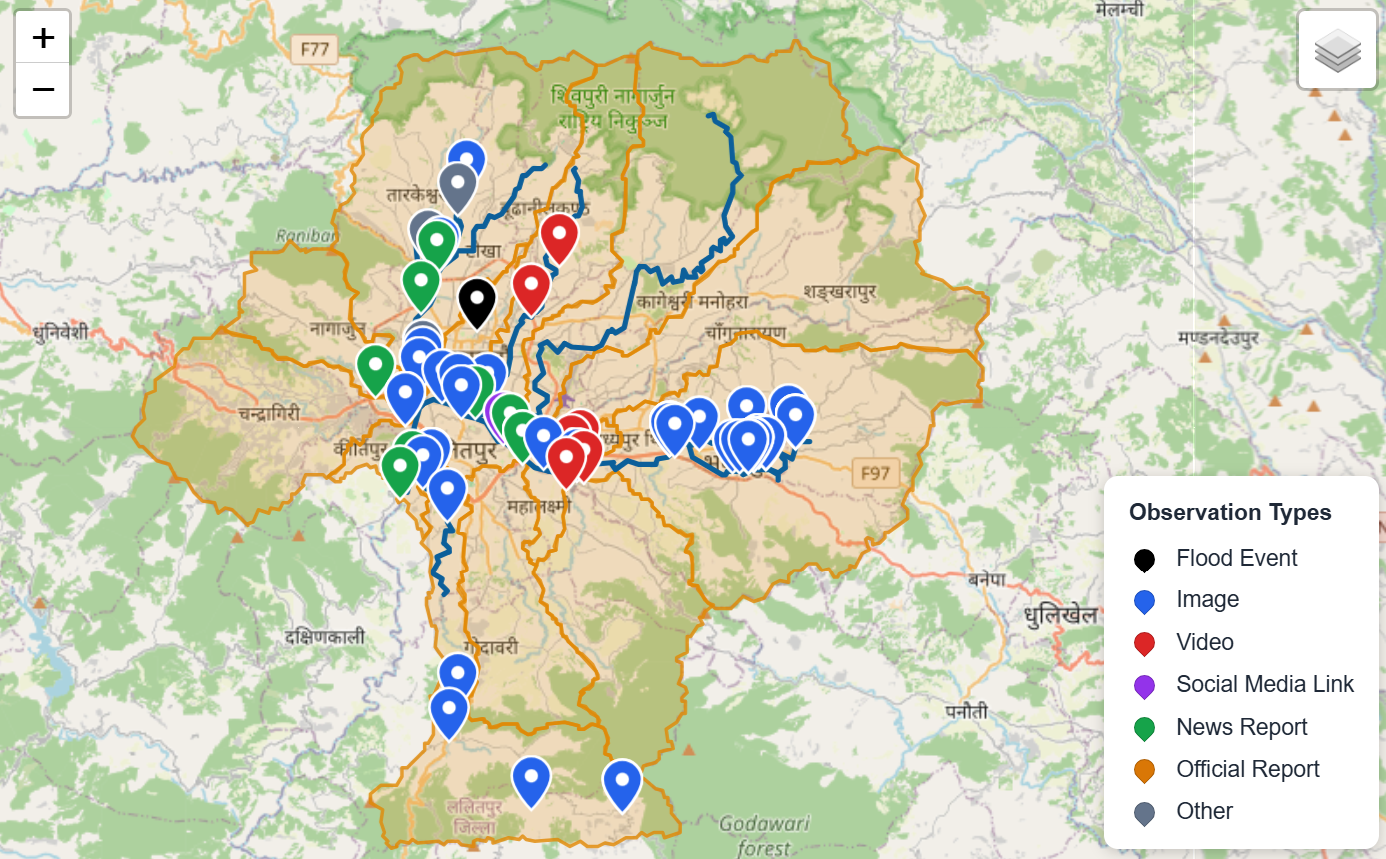
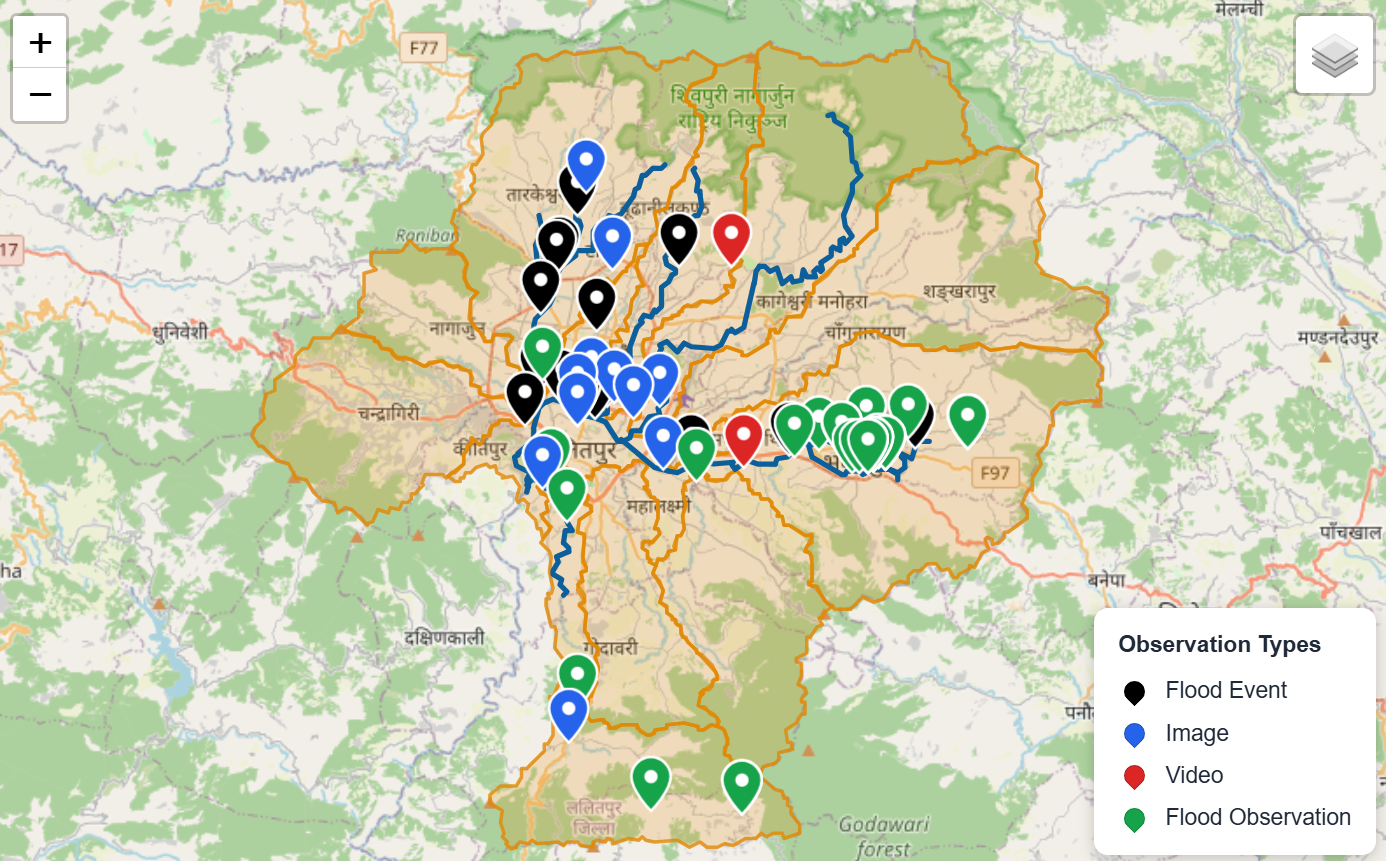
Updated gallery tiling and map thumbnail

diff --git a/flood_repository_2/style.css b/flood_repository_2/style.css
@@ -1381,6 +1381,19 @@ input.filter-dropdown {
     gap: 20px;
 }
 
+@media (max-width: 900px) {
+    .gallery {
+        grid-template-columns: repeat(2, minmax(0, 1fr));
+    }
+}
+
+/* One column on phones. */
+@media (max-width: 600px) {
+    .gallery {
+        grid-template-columns: 1fr;
+    }
+}
+
 /*
    43. Gallery Card Images
     */
